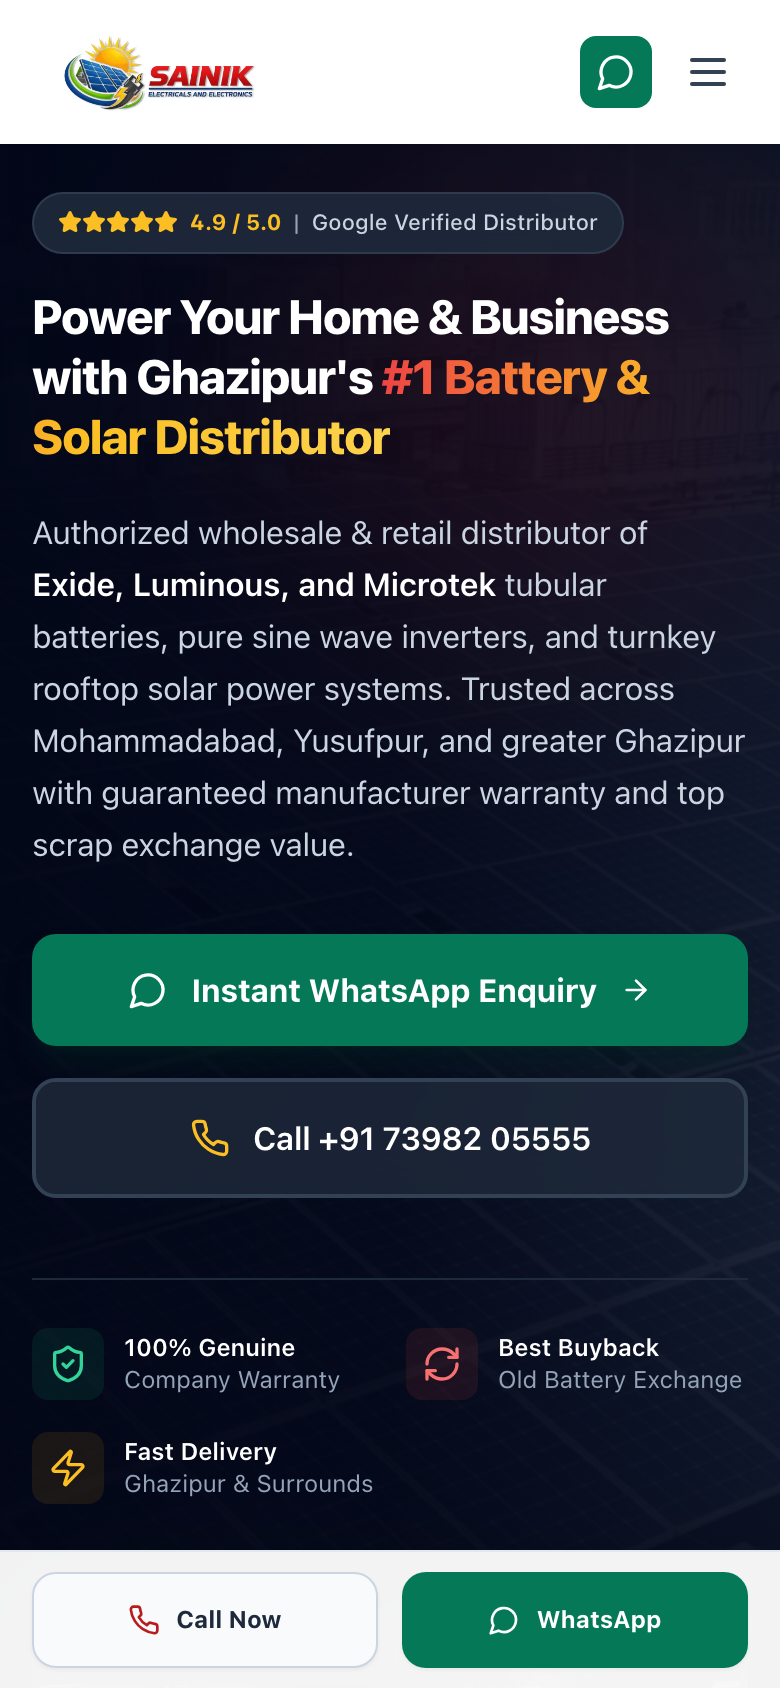
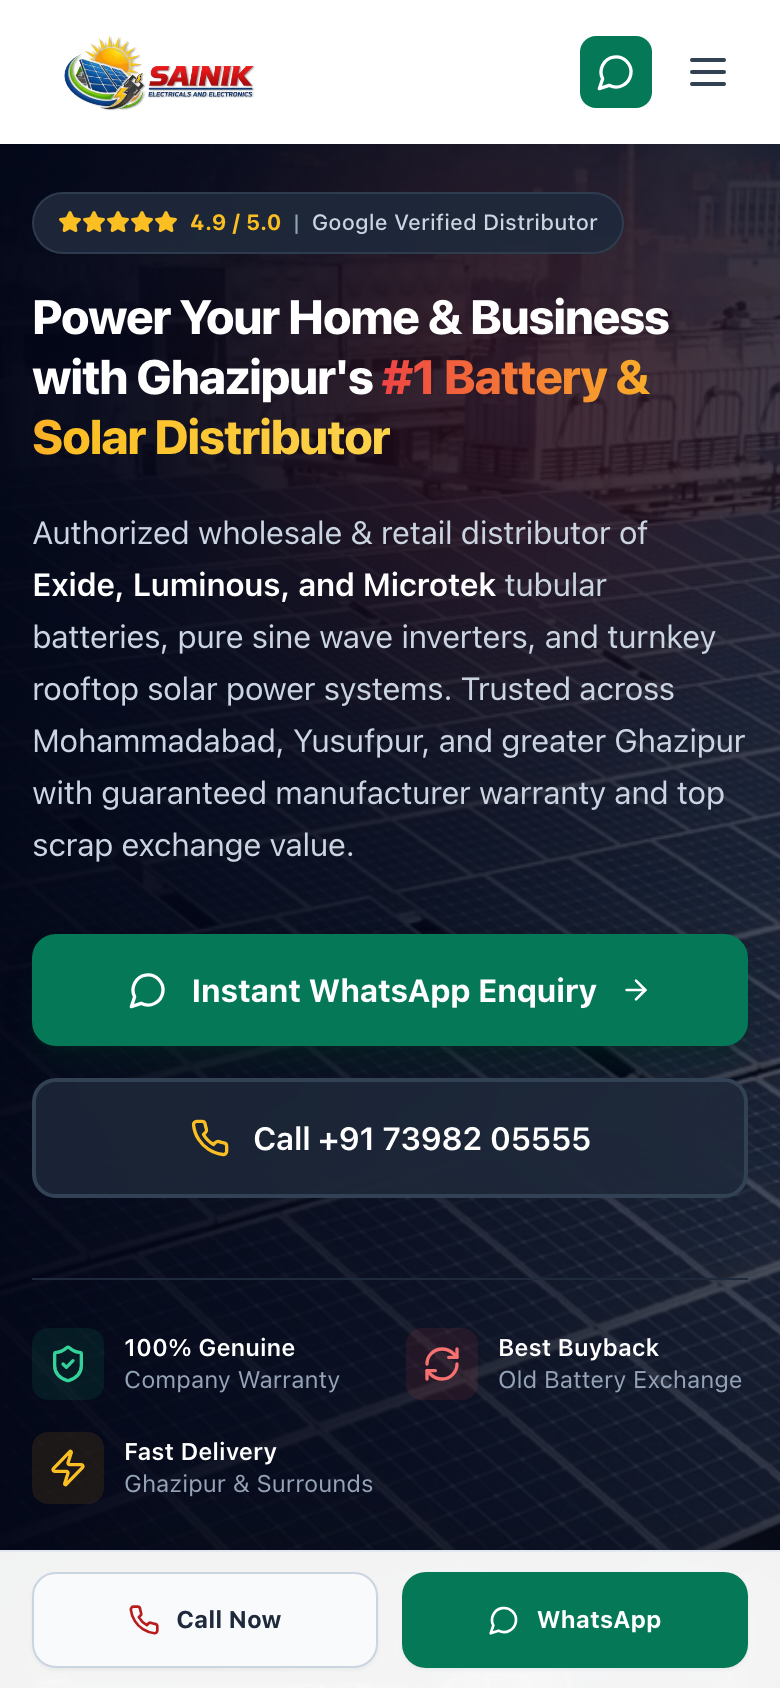
fix(hero): ensure reliable video autoplay across mobile/Brave and increase background video visibility

diff --git a/src/components/Hero.tsx b/src/components/Hero.tsx
@@ -1,29 +1,57 @@
 'use client';
 
-import { useState, useRef } from 'react';
+import { useState, useRef, useEffect } from 'react';
 import { Star, MessageCircle, Phone, ShieldCheck, Zap, ArrowRight, RefreshCw, Play, Pause, Volume2, VolumeX } from 'lucide-react';
 import { businessConfig, getWhatsAppUrl, getPhoneCallUrl } from '@/config/business';
 
 export default function Hero() {
-  const videoRef = useRef<HTMLVideoElement>(null);
+  const bgVideoRef = useRef<HTMLVideoElement>(null);
+  const featuredVideoRef = useRef<HTMLVideoElement>(null);
   const [isPlaying, setIsPlaying] = useState(true);
   const [isMuted, setIsMuted] = useState(true);
 
+  // Guarantee autoplay across all mobile, Safari, and Brave strict shields
+  useEffect(() => {
+    const playSafe = (el: HTMLVideoElement | null) => {
+      if (!el) return;
+      el.muted = true;
+      el.defaultMuted = true;
+      const playPromise = el.play();
+      if (playPromise !== undefined) {
+        playPromise.catch(() => {
+          // If browser policy blocks auto-play before interaction, start on first scroll or touch
+          const onUserInteract = () => {
+            el.play().catch(() => {});
+            window.removeEventListener('touchstart', onUserInteract);
+            window.removeEventListener('scroll', onUserInteract);
+            window.removeEventListener('click', onUserInteract);
+          };
+          window.addEventListener('touchstart', onUserInteract, { passive: true, once: true });
+          window.addEventListener('scroll', onUserInteract, { passive: true, once: true });
+          window.addEventListener('click', onUserInteract, { once: true });
+        });
+      }
+    };
+
+    playSafe(bgVideoRef.current);
+    playSafe(featuredVideoRef.current);
+  }, []);
+
   const togglePlay = () => {
-    if (!videoRef.current) return;
+    if (!featuredVideoRef.current) return;
     if (isPlaying) {
-      videoRef.current.pause();
+      featuredVideoRef.current.pause();
       setIsPlaying(false);
     } else {
-      videoRef.current.play().catch(() => {});
+      featuredVideoRef.current.play().catch(() => {});
       setIsPlaying(true);
     }
   };
 
   const toggleMute = () => {
-    if (!videoRef.current) return;
+    if (!featuredVideoRef.current) return;
     const newMuted = !isMuted;
-    videoRef.current.muted = newMuted;
+    featuredVideoRef.current.muted = newMuted;
     setIsMuted(newMuted);
   };
 
@@ -31,24 +59,27 @@ export default function Hero() {
     <section
       id="home"
       aria-label="Welcome to Sainik Electrical & Electronics"
-      className="relative overflow-hidden bg-slate-900 pt-6 pb-14 lg:pt-16 lg:pb-24 text-white"
+      className="relative overflow-hidden bg-slate-950 pt-6 pb-14 lg:pt-16 lg:pb-24 text-white"
     >
       {/* Background Cinematic Solar Video Header with Scrim */}
       <div className="absolute inset-0 overflow-hidden pointer-events-none" aria-hidden="true">
         <video
+          ref={bgVideoRef}
           autoPlay
           loop
           muted
           playsInline
+          preload="auto"
           poster="/videos/12842821-poster.jpg"
-          className="absolute inset-0 h-full w-full object-cover opacity-25 filter contrast-125 brightness-90"
+          className="absolute inset-0 h-full w-full object-cover opacity-60 lg:opacity-65 filter contrast-110 brightness-95"
         >
           <source src="/videos/12842821_3840_2160_30fps.mp4" type="video/mp4" />
         </video>
-        <div className="absolute inset-0 bg-gradient-to-r from-slate-950/95 via-slate-950/85 to-slate-900/75" />
-        <div className="absolute inset-0 bg-gradient-to-t from-slate-950 via-transparent to-slate-950/50" />
-        <div className="absolute top-0 right-0 h-64 w-64 sm:h-80 sm:w-80 rounded-full bg-red-600/10 blur-3xl" />
-        <div className="absolute bottom-0 left-0 h-64 w-64 sm:h-80 sm:w-80 rounded-full bg-amber-500/10 blur-3xl" />
+        {/* Cinematic gradient scrim: darker on left to keep text contrast 100% WCAG AA, clearer on right */}
+        <div className="absolute inset-0 bg-gradient-to-r from-slate-950/95 via-slate-950/75 to-slate-950/45" />
+        <div className="absolute inset-0 bg-gradient-to-t from-slate-950 via-transparent to-slate-950/40" />
+        <div className="absolute top-0 right-0 h-64 w-64 sm:h-80 sm:w-80 rounded-full bg-red-600/15 blur-3xl" />
+        <div className="absolute bottom-0 left-0 h-64 w-64 sm:h-80 sm:w-80 rounded-full bg-amber-500/15 blur-3xl" />
       </div>
 
       <div className="relative mx-auto max-w-7xl px-4 sm:px-6 lg:px-8">
@@ -147,11 +178,12 @@ export default function Hero() {
               <div className="relative rounded-2xl bg-gradient-to-tr from-red-600/40 via-slate-700 to-amber-500/40 p-1 shadow-2xl">
                 <div className="relative overflow-hidden rounded-xl bg-slate-950 aspect-[4/3] sm:aspect-[4/3] group">
                   <video
-                    ref={videoRef}
+                    ref={featuredVideoRef}
                     autoPlay
                     loop
                     muted={isMuted}
                     playsInline
+                    preload="auto"
                     poster="/videos/header-video-poster.jpg"
                     className="absolute inset-0 h-full w-full object-cover transition-transform duration-700 group-hover:scale-105"
                   >
